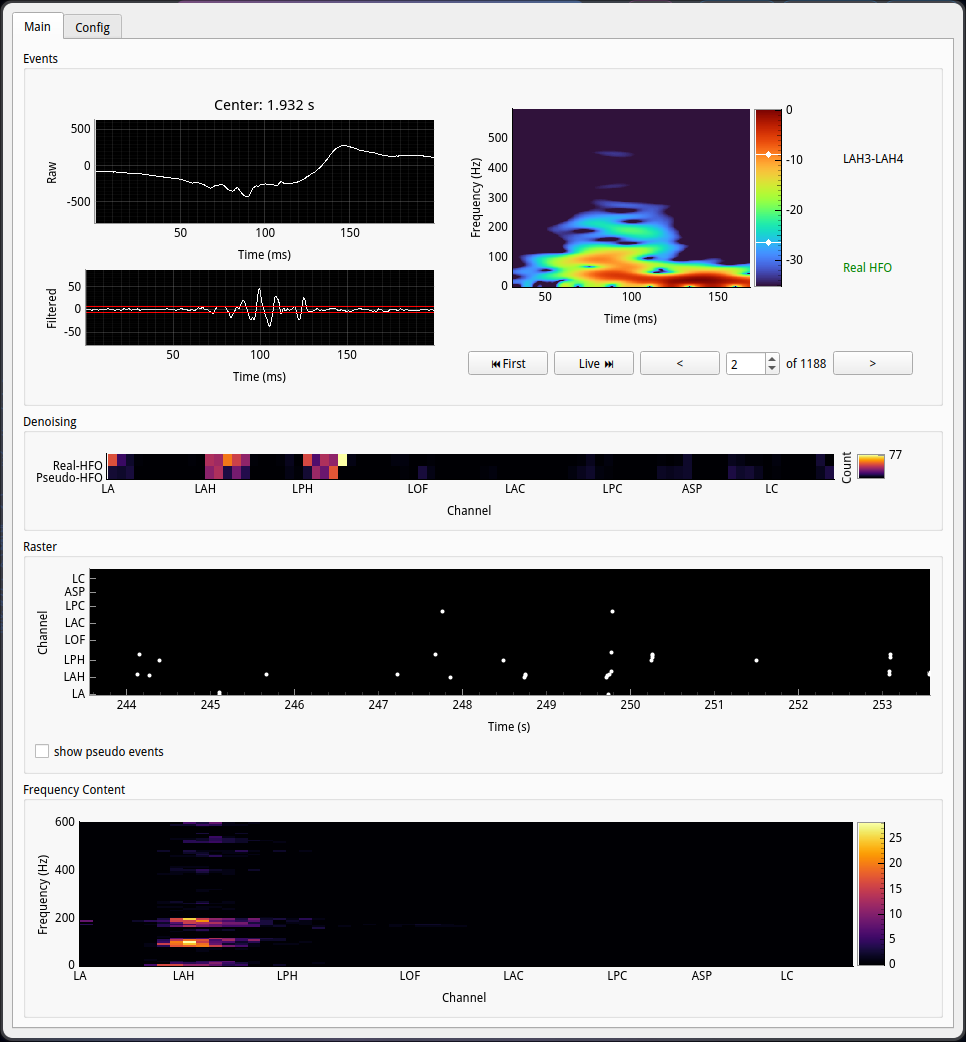
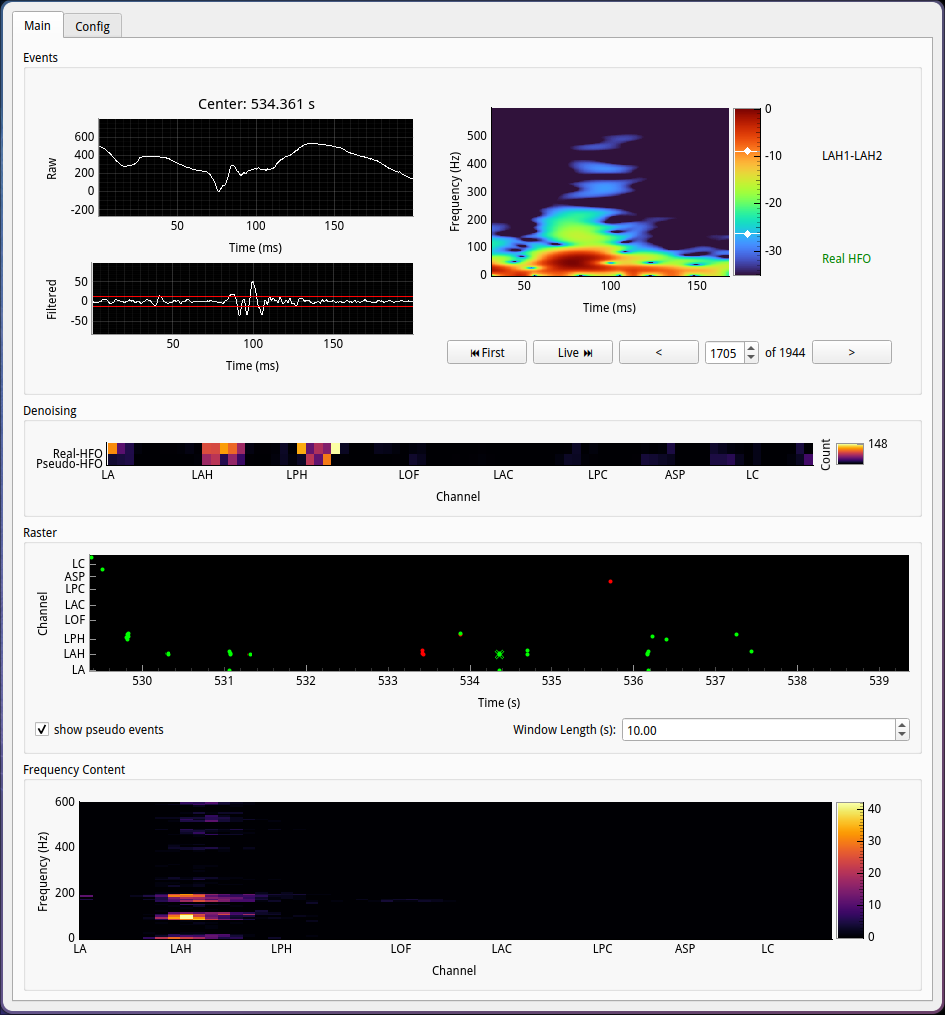
Update README.md to include raster plot updates

diff --git a/README.md b/README.md
@@ -42,8 +42,13 @@ This panel shows a heatmap of the counts of real and pseudo-HFO events per chann
 
 #### Raster Plot
 
-A live, sliding raster plot of detected HFO events per channel. You can tick the "show
-pseudo events" checkbox to show pseudo-HFO events as well.
+A raster plot of the detected events over channels and time. Green points indicate
+events that have been classified as real HFOs, while red points indicate pseudo-HFOs.
+White points indicate events that have not been classified yet. If "show pseudo events"
+isn't checked, only real HFOs will be shown in green and unverified points in white. The
+event shown in the Events panel is marked with an 'X' and centered in the plot.
+
+You can change the length of the time window shown in the raster plot with the spin box.
 
 #### Frequency Content Plot
 
